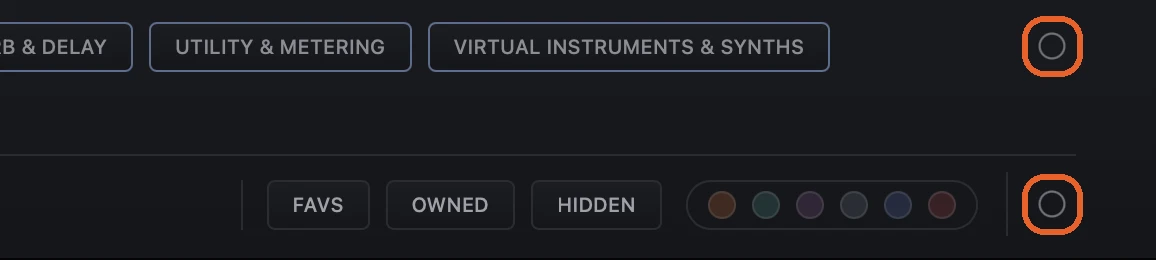
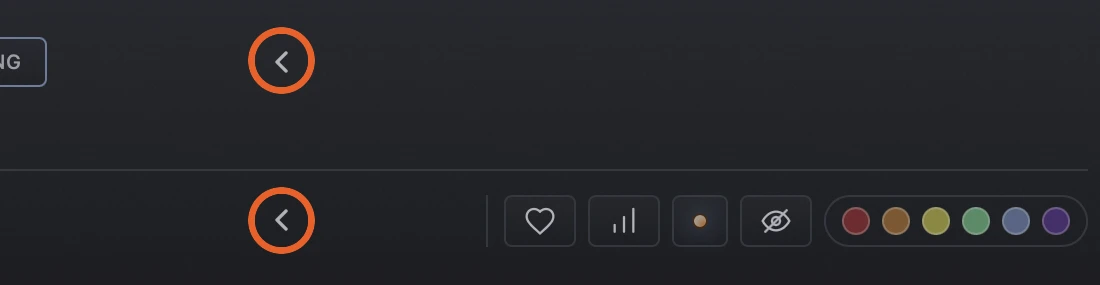
PA: load 2.0 first at the main PA address, keep 1.0 under /v1/ with a 2.0 | 1.0 tab switch
Claude-Session: https://claude.ai/code/session_01CH3L65XQEXCz6Uu3iFQYpi

diff --git a/public/pa-x7k2q9m4w3/index.html b/public/pa-x7k2q9m4w3/index.html
@@ -1,7 +1,7 @@
 <!doctype html>
 <html lang="en"><head>
 <meta name="robots" content="noindex,nofollow"><meta charset="utf-8"><meta name="viewport" content="width=device-width, initial-scale=1">
-<title>BCD × Plugin Alliance</title>
+<title>BCD × Plugin Alliance 2.0</title>
 <link rel="preconnect" href="https://fonts.googleapis.com">
 <link href="https://fonts.googleapis.com/css2?family=Albert+Sans:wght@300;400;500;600&display=swap" rel="stylesheet">
 <style>
@@ -46,19 +46,26 @@ footer .wrap{display:flex;justify-content:space-between;gap:16px;flex-wrap:wrap}
 nav .wrap{display:grid;grid-template-columns:1fr auto 1fr;gap:16px}nav .wrap>.links{justify-self:center}nav .wrap>.btn{justify-self:end;padding:0 20px;height:40px;display:inline-flex;align-items:center;font-size:13px}.subrow{justify-content:flex-start;gap:40px}.subrow .links{margin-right:0}@media(max-width:700px){nav .wrap{display:flex}}
 nav .wrap{display:flex}
 .txt p+p{margin-top:14px}.txt strong{color:var(--ink);font-weight:600}
-.req{max-width:640px}.req strong{color:var(--ink);font-weight:600}</style></head><body>
+.req{max-width:640px}.req strong{color:var(--ink);font-weight:600}.newgrid{display:grid;grid-template-columns:repeat(auto-fit,minmax(300px,1fr));gap:40px 56px;margin-top:44px}.newgrid h3{margin:0 0 8px}.newgrid p{margin:0;color:var(--sec);line-height:1.7;font-size:16px}.sub{margin:44px 0 -8px;grid-column:1/-1;font-size:11px;font-weight:500;letter-spacing:.14em;text-transform:uppercase;color:var(--mut)}.ver{margin-top:28px;font-size:13px;letter-spacing:.04em;color:var(--mut)}.vtabs{display:flex;gap:6px}.vtabs a{font:500 12px/1 ui-monospace,Menlo,monospace;letter-spacing:.12em;text-transform:uppercase;text-decoration:none;color:var(--ink);opacity:.6;padding:10px 14px;border:1px solid var(--line);border-radius:8px}.vtabs a:hover{opacity:1}.vtabs a.on{opacity:1;border-color:var(--ink)}</style></head><body>
 <nav><div class="wrap"><a class="brand" href="#top">BCD<i class="dot"></i></a>
-</div></nav>
+<div class="vtabs"><a class="on" href="./">2.0 preview</a><a href="v1/">1.0</a></div></div></nav>
 
 <section class="hero" id="top"><div class="wrap">
-<div class="subrow"><div class="eyebrow"><i></i>BCD × Plugin Alliance</div><div class="links"><a href="#views">Views</a><a href="#header-bar">Header bar</a><a href="#controls">Controls</a></div></div>
+<div class="subrow"><div class="eyebrow"><i></i>BCD × Plugin Alliance 2.0</div><div class="links"><a href="#new">What’s new</a><a href="#views">Views</a><a href="#header-bar">Header bar</a><a href="#controls">Controls</a></div></div>
 <h1>Browse. Click. Done.</h1>
-<p class="lead">Plugin Alliance has one of the deepest catalogues in the audio industry. Omni puts your plugins and instruments on screen as pictures you recognise. Click one and it opens on the selected channel strip.</p>
-<div class="btns"><a class="btn o" href="#header-bar">See the controls</a></div>
+<p class="lead">Plugin Alliance brings together an extensive collection of plugins from the audio industry’s leading brands. BCD gives you a visual way to explore, organise and launch them, with support for eleven DAWs on Mac. It works offline, and nothing leaves your Mac.</p>
+<div class="btns"><a class="btn o" href="#new">See what’s new</a></div>
 <img src="page/view_grid.webp" alt="BCD × Plugin Alliance in Grid view">
 </div></section>
 
-<section class="white" id="views"><div class="wrap">
+<section class="white" id="new"><div class="wrap">
+<div class="eyebrow">New in 2.0</div>
+<h2>What’s new in 2.0.</h2>
+<p class="lead">Version 2.0.0-preview.2, a trial preview. Here is what has changed since the first version.</p>
+<div class="newgrid"><div><h3>Browse and search by brand</h3><p>A Brands | Categories switch sits above the artwork. Brands shows every brand in the catalogue, and Categories shows Plugin Alliance’s own categories. Pick a brand and the grid narrows to it; combine it with a category, and click the brand again to clear it. Each tile shows its brand across the top and the plugin’s own name below, so far fewer names are cut off, and typing a brand name in search finds all of its plugins, even where the brand is not in the plugin’s name.</p></div><div><h3>Eleven DAWs</h3><p>Choose your DAW on the DAW tab. The app works on Mac with <strong>Ableton Live, Bitwig Studio, Cubase, FL Studio, Logic Pro, LUNA, Nuendo, Pro Tools, REAPER, Reason and Studio Pro / Studio One</strong>.</p></div><div><h3>No other software</h3><p>Flexi-Deck is not needed. The app installs a small script for Logic, the BCD Bridge, during set-up, and asks for the Accessibility permission once.</p></div><div><h3>Colour tags</h3><p>Six fixed colours (red, orange, yellow, green, blue and purple) to organise plugins around your workflow. Name each colour in Prefs and hover over a tag to see its meaning. Click a colour to filter the collection, or pick several at once; a small ✕ clears them. Tags show in every view.</p></div><div><h3>Batch</h3><p>Select several plugins, or the whole collection, then favourite or unfavourite, hide or unhide, colour-tag, mark Owned or Not Owned, add to a category, or export them in one go, with Undo if you change your mind.</p></div><div><h3>Owned and Not Owned, and a wish list</h3><p>Plugins you don’t own stay visible but dimmed. Give one a heart and it works as a wish list, which is useful when a trial ends.</p></div><div><h3>Most Used</h3><p>Your 20 most inserted plugins, busiest first. It counts per DAW, so each host shows only what you used there.</p></div><div><h3>Favs and Hidden filters</h3><p>Small icons (heart, owned light, eye with a slash) show only favourites, only plugins you own or don’t, or only what you’ve hidden. Hover to see the name and how many.</p></div><div><h3>Just start typing</h3><p>A letter typed anywhere jumps into the search box, Esc clears it, and Return loads the top result.</p></div><div><h3>Plugin report</h3><p>One click in Libraries scans your standard plugin folders and saves an Excel report to your Desktop: one row per plugin, the formats each is installed in, duplicates, and folder sizes. It only reads; nothing is moved, deleted or sent anywhere.</p></div><div><h3>Faster inserts</h3><p>On our test Macs, a tile click now gets the plugin into Logic about a second sooner than the first version.</p></div><div><h3>A calmer first launch</h3><p>The app asks for the main permission once, in front, a moment after the window appears, and takes you straight to the right Settings page, so the first click usually works. (macOS may still ask separately to let the app control Logic Pro the first time.)</p></div><div><h3>The Add form is in clear sections</h3><p>In the evaluation build, the form is split into Module, Maker, Categories, Status and Artwork. The manufacturer’s own categories are blue and BCD’s shared categories are violet, each with a short key. The main action is a muted green.</p></div><div><h3>Effect or Instrument, made clear (in the evaluation build)</h3><p>Adding your own plugin uses a clear Effect | Instrument choice under the name. The Instrument switch, the manufacturer’s instrument category and BCD’s Instruments category follow each other, and choosing an instrument-type category turns Instrument on automatically.</p></div><div><h3>Choose a brand when you add a plugin (in the evaluation build)</h3><p>An optional Brand field suggests a brand from the name and only accepts brands already in the catalogue.</p></div><div><h3>Easier to read</h3><p>The tabs at the top of each drawer stay in place while the contents scroll, with more space between sections.</p></div><div><h3>Plugins open in front</h3><p>The app’s window fills the screen without macOS full screen, so a plugin window never opens behind it when your DAW is full screen on another display.</p></div><div><h3>Copy system info</h3><p>One click in the Help tab puts your versions and settings on the clipboard, ready to paste into a message. It contains no plugin names, no files and nothing personal.</p></div><div><h3>A Help tab</h3><p>The version and build number, whether the permission it needs has been granted, what the app needs, and short fixes for the usual problems.</p></div></div>
+</div></section>
+
+<section class="line" id="views"><div class="wrap">
 <div class="eyebrow">Three ways to look</div>
 <h2>Grid, List and Sphere.</h2>
 <p class="lead">Switch views at any time. Your filters stay exactly as they are.</p>
@@ -67,36 +74,41 @@ nav .wrap{display:flex}
 <div><img src="page/view_list_plain.webp" alt="List view"><div class="cap"><b>List</b><span>Names first, sorted by plugin or by company.</span></div></div>
 <div><img src="page/view_list_coloured.webp" alt="List view with colour tags"><div class="cap"><b>List with colour tags</b><span>Tag a module with a colour and its tile takes the tint.</span></div></div>
 </div>
-<div><img src="page/view_sphere.webp" alt="Sphere view"><div class="cap"><b>Sphere</b><span>An endless drifting field for browsing rather than searching.</span></div></div>
+<div><img src="page/view_sphere.webp" alt="Sphere view"><div class="cap"><b>Sphere</b><span>An endless drifting field for browsing and discovering.</span></div></div>
 </div></section>
 
-<section class="line" id="header-bar"><div class="wrap">
+<section class="white" id="header-bar"><div class="wrap">
 <div class="eyebrow">The header bar</div>
 <h2>Everything you need, along one bar.</h2>
-<p class="lead">Views, search and tools sit in the header. Categories, companies and filters sit just beneath it. Here is what each one does.</p>
+<p class="lead">Views, search and tools sit in the header. The Brands | Categories switch, the company row and the filters sit just beneath it. Here is what each one does.</p>
 <img src="page/hdr_all.webp" alt="The full header bar">
 </div></section>
 
 <section class="line" id="controls" style="padding-bottom:24px"><div class="wrap rows">
-<div class="row"><div class="shots"><img src="page/r01_count.webp" alt="The module count" style="max-width:100%"></div><div class="txt"><div class="lab">01</div><h3>The module count</h3><p>Under the title, it shows how many modules match what you are looking at, out of the whole collection. It updates as you search and filter.</p></div></div>
-<div class="row"><div class="shots"><img src="page/r02_views.webp" alt="Grid, List and Sphere" style="max-width:100%"></div><div class="txt"><div class="lab">02</div><h3>Grid, List and Sphere</h3><p>Grid shows tiles with artwork. List shows rows sorted by plugin or company. Sphere is an endless drifting field for browsing rather than searching.</p></div></div>
-<div class="row"><div class="shots"><img src="page/r03_dice_az.webp" alt="Dice and A–Z" style="max-width:100%"><img src="page/r03_dice_sphere.webp" alt="Dice and A–Z" style="max-width:100%"></div><div class="txt"><div class="lab">03</div><h3>Dice and A–Z</h3><p>The dice shuffles the order. In Sphere it reshuffles the field, and the ∞ button switches between an endless field and a single one, with each module once. In Grid and List, once a company or category is chosen, A–Z puts the tiles back in order.</p></div></div>
-<div class="row"><div class="shots"><img src="page/r04_search.webp" alt="Search" style="max-width:100%"><img src="page/r04_search_typed.webp" alt="Search with text typed, showing the clear button" style="max-width:100%"></div><div class="txt"><div class="lab">04</div><h3>Search and Logic Search</h3><p>Type to filter modules by name. A small × appears at the end of the field to clear what you typed. The dot at the end opens Logic’s own plugin search.</p></div></div>
-<div class="row"><div class="shots"><img src="page/mag_toolbar.webp" alt="The Magnify button, switched on" style="max-width:100%"><img src="page/mag_popup.webp" alt="A module enlarged by Magnify" style="max-width:100%"></div><div class="txt"><div class="lab">05</div><h3>Magnify</h3><p>Switch it on and hover any module to see its artwork enlarged, with its name and company. It is switched off while you batch-select.</p></div></div>
-<div class="row"><div class="shots"><img src="page/batch_toolbar.webp" alt="The Batch button" style="max-width:100%"><img src="page/batch_bar.webp" alt="The batch bar with two modules selected" style="max-width:100%"></div><div class="txt"><div class="lab">06</div><h3>Batch</h3><p>Click Batch, then click modules to select them. A bar opens at the bottom with Select all, favourite or unfavourite, hide or unhide, owned or not owned, colour tags, export, delete and Add to category. Delete removes your own additions. Done closes the bar.</p></div></div>
-<div class="row"><div class="shots"><img src="page/drawer_add.webp" alt="The Add drawer" style="max-width:440px"></div><div class="txt"><div class="lab">07</div><h3>+ Add</h3><p>Add a module by hand. Give it a name, then the exact name Logic uses in its plugin menu, so it can be found. Choose the manufacturer and categories, and mark it Owned or Hidden if you want to. Then add a colour tag, drop in artwork and press Add Module.</p><p><strong>If it is an instrument, you must click the large Instrument button under the categories. That triggers the Instrument macro, which creates the channel strip first.</strong></p></div></div>
-<div class="row"><div class="shots"><img src="page/drawer_libraries.webp" alt="The Libraries drawer" style="max-width:440px"></div><div class="txt"><div class="lab">08</div><h3>Libraries</h3><p>Import a library, or drop a .BCDLIB file anywhere in the window, or import a spreadsheet (CSV or XLSX). Every company has its own switch, so you can show or hide whole libraries. BCD Catalog and Your Additions show how many modules come from each.</p></div></div>
-<div class="row"><div class="shots"><img src="page/drawer_prefs.webp" alt="The Prefs drawer" style="max-width:440px"></div><div class="txt"><div class="lab">09</div><h3>Prefs</h3><p>Choose whether Omni opens in Grid, Sphere or where you left off, and set the tile size and artwork zoom. Pick a click glow and its colour, name your six colour tags, and choose whether tags show in List only or in Grid and Sphere too. The Sphere field can be endless or single.</p></div></div>
-<div class="row"><div class="shots"><img src="page/r09_states.webp" alt="Favs, Owned and Hidden" style="max-width:720px"></div><div class="txt"><div class="lab">10</div><h3>Favs, Owned and Hidden</h3><p>Three filters that combine with the category and company rows. Favs shows what you have hearted, Owned shows what you own, and Hidden shows what you have put away. Colour dots filter by tag.</p></div></div>
-<div class="row"><div class="shots"><img src="page/r08_left.webp" alt="The category row and the company pill" style="max-width:100%"><img src="page/r08_right.webp" alt="The circles that show or hide categories and companies" style="max-width:100%"></div><div class="txt"><div class="lab">11</div><h3>Categories and companies</h3><p>Filter by company, then by that company’s own categories. With everything showing, the same row becomes BCD’s 14 categories, so every manufacturer shares one vocabulary. The circle at the end of the category row shows or hides all the categories. The circle at the end of the company row shows or hides the companies.</p></div></div>
-<div class="row"><div class="shots"><img src="page/tile_closeup_grid.webp" alt="A module tile in Grid view, with artwork" style="max-width:516px"><img src="page/tile_closeup.webp" alt="A module tile in List view, name only" style="max-width:516px"></div><div class="txt"><div class="lab">12</div><h3>Module cards</h3><p>Click the artwork or the name and the plugin opens on the selected channel strip in Logic. The dot marks owned or not owned, the pencil edits the module, and the heart adds it to your favourites. Grid tiles show the artwork, List tiles show the name.</p></div></div>
+<div class="row"><div class="shots"><img src="page/r01_count.webp" alt="The module count" style="max-width:100%"></div><div class="txt"><div class="lab">01</div><h3>The module count</h3><p>Under the title, it shows how many modules match what you are looking at, out of the whole collection, and the DAW the app is set up for. It updates as you search and filter.</p></div></div>
+<div class="row"><div class="shots"><img src="page/r02_views.webp" alt="Grid, List and Sphere" style="max-width:100%"></div><div class="txt"><div class="lab">02</div><h3>Grid, List and Sphere</h3><p>Grid shows tiles with artwork. List shows rows sorted by plugin or company. Sphere is an endless drifting field for browsing and discovering.</p></div></div>
+<div class="row"><div class="shots"><img src="page/r03_dice_sphere.webp" alt="Dice and infinity button in Sphere" style="max-width:100%"><img src="page/r03_dice_az.webp" alt="Dice and A–Z" style="max-width:100%"></div><div class="txt"><div class="lab">03</div><h3>Dice and A–Z</h3><p>The dice shuffles the order. In Sphere it reshuffles the field, and the ∞ button switches between an endless field and a single one, with each module once. In Grid and List, once a company or category is chosen, A–Z puts the tiles back in order.</p></div></div>
+<div class="row"><div class="shots"><img src="page/brands_open.webp" alt="The Brands and Categories switch, with Brands showing" style="max-width:100%"><img src="page/brand_selected.webp" alt="One brand picked, with the module count narrowed" style="max-width:100%"></div><div class="txt"><div class="lab">04</div><h3>Brands and Categories</h3><p>A Brands | Categories switch sits above the artwork. Brands shows every brand in the catalogue, such as Brainworx, SPL, Lindell Audio, Unfiltered Audio and elysia. Categories shows Plugin Alliance’s own categories.</p><p>Pick a brand and the grid narrows to it. Combine it with a category, and click the brand again to clear it. The two choices narrow each other, so you never click into an empty result.</p><p>The company row beneath picks the library: Plugin Alliance, Apple Logic or Apple Native.</p></div></div>
+<div class="row"><div class="shots"><img src="page/sr_brand.webp" alt="Search results for the brand Apogee" style="max-width:100%"><img src="page/r04_search_typed.webp" alt="The white circle at the end of the search field, which opens your DAW’s own plugin search" style="max-width:100%"></div><div class="txt"><div class="lab">05</div><h3>Search</h3><p>Type to filter modules by name. Type a brand name and you find all of its plugins, even where the brand is not in the plugin’s name. You don’t need to click the box first: a letter typed anywhere jumps into search, Esc clears it, and Return loads the top result. The white circle at the end opens your DAW’s own plugin search.</p></div></div>
+<div class="row"><div class="shots"><img src="page/batch_toolbar.webp" alt="The Batch button" style="max-width:100%"><img src="page/batch_bar.webp" alt="The batch bar with four modules selected" style="max-width:100%"></div><div class="txt"><div class="lab">06</div><h3>Batch</h3><p>Click Batch, then click modules to select them, or use Select all. A bar opens at the bottom to favourite or unfavourite, hide or unhide, mark Owned or Not Owned, apply a colour tag, add to a category, or export. Undo steps back if you change your mind, and the bin removes your own additions. Done closes the bar, and Exit leaves Batch.</p></div></div>
+<div class="row"><div class="shots"><img src="page/mag_toolbar.webp" alt="The Magnify button, switched on" style="max-width:100%"><img src="page/mag_popup.webp" alt="A module enlarged by Magnify" style="max-width:100%"></div><div class="txt"><div class="lab">07</div><h3>Magnify</h3><p>Switch it on and hover any module to see its artwork enlarged, with its name and company. It is switched off while you batch-select.</p></div></div>
+<div class="row"><div class="shots"><img src="page/drawer_add_effect.webp" alt="The Add drawer with Effect chosen" style="max-width:440px"><img src="page/drawer_add_instrument.webp" alt="The Add drawer with Instrument chosen" style="max-width:440px"><img src="page/drawer_add_sections.webp" alt="The Add drawer showing the categories" style="max-width:440px"></div><div class="txt"><div class="lab">08</div><h3>+ Add</h3><p>In the evaluation build, + Add adds a module by hand. The form is in clear sections: Module, Maker, Categories, Status and Artwork. Choose Effect or Instrument, give the module a name, then enter the exact name your DAW uses in its plugin list, so it can be found. The optional Brand field suggests a brand from the name and only accepts brands already in the catalogue. Choose the manufacturer, then the categories: the manufacturer’s own are blue and BCD’s shared categories are violet. Under Status, mark it Owned or Hidden and add a colour tag, then drop in artwork and press Add Module. The tabs at the top stay in place while the form scrolls.</p><p><strong>If it is an instrument, Instrument must be selected. Choosing an instrument-type category turns it on for you.</strong></p></div></div>
+<div class="row"><div class="shots"><img src="page/drawer_libraries.webp" alt="The Libraries drawer" style="max-width:440px"></div><div class="txt"><div class="lab">09</div><h3>Libraries</h3><p>In the evaluation build, Libraries imports a library, or drop a .BCDLIB file anywhere in the window, or import a spreadsheet (CSV or XLSX). Every company has its own switch, so you can show or hide whole libraries. BCD Catalog and Your Additions show how many modules come from each.</p><p><strong>Plugin report</strong> scans your standard plugin folders and saves an Excel report to your Desktop: one row per plugin, the formats each is installed in, duplicates, and folder sizes. It only reads; nothing is moved, deleted or sent anywhere.</p></div></div>
+<div class="row"><div class="shots"><img src="page/drawer_prefs_full.webp" alt="The Prefs drawer, from colour tags to interaction and system" style="max-width:440px"></div><div class="txt"><div class="lab">10</div><h3>Prefs</h3><p>Name your six colour tags. Set the tile size and artwork zoom, pick an accent colour, and choose a click glow and its colour. Choose whether the app opens in Grid, Sphere or where you left off, set a keyboard shortcut to show or hide the app, and reveal its data folder in Finder.</p></div></div>
+<div class="row"><div class="shots"><img src="page/drawer_daw_full.webp" alt="The DAW tab, choosing a host app and the set-up checklist" style="max-width:440px"><img src="page/bcd_bridge.webp" alt="The BCD Bridge" style="max-width:220px"></div><div class="txt"><div class="lab">11</div><h3>DAW</h3><p>The DAW tab is where you choose your DAW, from Ableton Live, Bitwig Studio, Cubase, FL Studio, Logic Pro, LUNA, Nuendo, Pro Tools, REAPER, Reason and Studio Pro / Studio One. No other software is needed. For Logic, the app installs a small script, the BCD Bridge, during set-up. In Logic it is listed under Control Surfaces &gt; Setup, as shown below. A short checklist shows whether the permission has been granted, whether the app is listening and whether the bridge is installed, with an Open settings link beside each permission and a Show guide pictures link for step-by-step help. A few DAWs (Pro Tools, Nuendo, Cubase, Studio Pro and Reason) also need the Screen Recording permission.</p><p>Pro Tools needs to be the English version, and the app loads AAX plugins only. A click takes the first result for names ending in “(mono)”, and a double click lets you pick.</p></div></div>
+<div class="row"><div class="shots"><img src="page/drawer_help.webp" alt="The Help drawer, top" style="max-width:440px"><img src="page/drawer_help_copy.webp" alt="The Help drawer, Send us your details and the Copy system info button" style="max-width:440px"></div><div class="txt"><div class="lab">12</div><h3>Help</h3><p>The Help tab shows whether the permission the app needs has been granted, with buttons to check again and to open the right Settings page, and lists what the app needs. It explains how to use the app on a touch screen, and has a tip for giving the app a screen of its own. <strong>Copy system info</strong> puts your versions and settings on the clipboard, with no plugin names, no files and nothing personal, to paste into a message to us. Below it are short fixes for the usual problems.</p></div></div>
+<div class="row"><div class="shots"><img src="page/r09_icons.webp" alt="The four filter icons and the colour dots" style="max-width:100%"><img src="page/icons_states.webp" alt="Favs, Most Used, Owned and Hidden switched on" style="max-width:560px"></div><div class="txt"><div class="lab">13</div><h3>Favs, Most Used, Owned and Hidden</h3><p>Four icons at the lower right of the header each filter the collection, and each has an off and an on state. The heart shows only your favourites. The bars show Most Used: your 20 most inserted plugins, busiest first, counted per DAW. The owned light shows the plugins you own or don’t, and the eye with a slash shows what you have put away. Hover over an icon to see its name and how many. The filters combine with search, company and category.</p></div></div>
+<div class="row"><div class="shots"><img src="page/icons_colours.webp" alt="The six colour dots, and one colour switched on" style="max-width:560px"><img src="page/colours_tiles.webp" alt="Tiles with colour tags in List view" style="max-width:100%"></div><div class="txt"><div class="lab">14</div><h3>Colour tags</h3><p>Mark plugins with one of six fixed colours (red, orange, yellow, green, blue and purple) to organise them around your workflow. Name each colour in Prefs, and hover over a tag to see its meaning.</p><p><strong>Filtering.</strong> Click a colour in the header to filter the collection, or pick several at once. A small ✕ clears them.</p><p><strong>On the tiles.</strong> Tags show in every view: a small coloured circle at the bottom left of a tile in Grid and Sphere, and in List the whole tile takes a coloured frame as well as the circle. To tag many at once, select them with Batch and click a colour on the bar.</p></div></div>
+<div class="row"><div class="shots"><img src="page/r08_right.webp" alt="The arrows that collapse the category and company rows" style="max-width:100%"></div><div class="txt"><div class="lab">15</div><h3>Categories and companies</h3><p>Filter by company, then by category or brand. The arrow at the end of the top row, just under Magnify, opens and closes the brands or categories, and the arrow on the company row opens and closes the companies.</p></div></div>
+<div class="row"><div class="shots"><img src="page/tile_closeup_grid.webp" alt="A module tile in Grid view, with artwork" style="max-width:516px"><img src="page/tile_closeup.webp" alt="A module tile in List view, name only" style="max-width:516px"><img src="page/owned_pair.webp" alt="The same tile owned, with a lit dot, and not owned, dimmed with a hollow dot" style="max-width:516px"></div><div class="txt"><div class="lab">16</div><h3>Module cards</h3><p>Each tile shows its brand across the top and the plugin’s own name below, so far fewer names are cut off. Click the artwork or the name and the plugin goes onto the selected track in your DAW. The dot at the top right marks owned (lit) or not owned (hollow), the pencil edits the module, and the heart adds it to your favourites. Plugins you don’t own stay visible but dimmed, as in the last pair of images, and a heart on one works as a wish list, which is useful when a trial ends. Grid tiles show the artwork, List tiles show the name.</p></div></div>
 </div></section>
 
 <section class="white" id="get" style="margin-top:48px;padding:96px 32px"><div class="wrap">
 <div class="lab" style="margin-bottom:16px">System requirements</div>
-<p class="lead req" style="margin-bottom:0"><strong>DAW:</strong> Logic Pro 11.1 or later (required for the plugin search Omni uses).</p>
-<p class="lead req" style="margin:12px 0 0"><strong>Flexi-Deck:</strong> the free Flexi-Deck Player, running, with the BCD Launch Macros project loaded. Omni hands each plugin name to Logic through these macros. Without them you can still browse, but a click won’t open the plugin.</p>
+<p class="lead req" style="margin-bottom:0"><strong>DAW:</strong> Tested on Logic Pro 12. Other DAWs are listed on the DAW tab in Prefs.</p>
+<p class="lead req" style="margin:12px 0 0"><strong>No other software.</strong> Flexi-Deck is not needed. The app installs a small script for Logic (the BCD Bridge) during set-up, and asks for the Accessibility permission once. A few DAWs (Pro Tools, Nuendo, Cubase, Studio Pro and Reason) also need the Screen Recording permission. Other DAWs are chosen and set up on the DAW tab in Prefs.</p>
 <p class="lead req" style="margin:12px 0 0"><strong>Mac:</strong> Apple Silicon, macOS 15 (Sequoia) or later.</p>
+<p class="ver">Version 2.0.0-preview.2 (trial / preview)</p>
 </div></section>
 <footer><div class="wrap"><div>BCD · Browse. Click. Done.</div><a href="#top" style="color:#666">Back to top</a></div></footer>
 </body></html>

diff --git a/public/pa-x7k2q9m4w3/v1/index.html b/public/pa-x7k2q9m4w3/v1/index.html
@@ -1,0 +1,102 @@
+<!doctype html>
+<html lang="en"><head>
+<meta name="robots" content="noindex,nofollow"><meta charset="utf-8"><meta name="viewport" content="width=device-width, initial-scale=1">
+<title>BCD × Plugin Alliance</title>
+<link rel="preconnect" href="https://fonts.googleapis.com">
+<link href="https://fonts.googleapis.com/css2?family=Albert+Sans:wght@300;400;500;600&display=swap" rel="stylesheet">
+<style>
+:root{--bg:#F7F7F5;--card:#fff;--line:#E6E6E2;--ink:#111;--sec:#444;--mut:#6B6B6B;--acc:#E8622C}
+*{box-sizing:border-box}
+html{scroll-behavior:smooth}
+body{margin:0;background:var(--bg);color:var(--ink);font-family:'Albert Sans',-apple-system,'SF Pro Display',system-ui,sans-serif}
+a{color:var(--ink)} a:hover{color:#666}
+img{display:block;width:100%;height:auto;border-radius:10px;border:1px solid #D9D9D4}
+.wrap{max-width:1120px;margin:0 auto}
+nav{padding:0 32px;border-bottom:1px solid var(--line)}
+nav .wrap{height:64px;display:flex;align-items:center;justify-content:space-between;gap:16px;flex-wrap:wrap}
+.brand{text-decoration:none;font-size:20px;letter-spacing:-.01em;display:flex;align-items:center;gap:8px}
+.brand span{font-weight:300;color:#666} .dot{width:7px;height:7px;border-radius:4px;background:var(--acc);display:inline-block;margin-top:4px}
+.links{display:flex;align-items:center;gap:8px;flex-wrap:wrap}
+.links a{padding:10px 12px;text-decoration:none;font-size:12px;font-weight:500;letter-spacing:.12em;text-transform:uppercase;color:var(--sec)}
+.btn{height:44px;padding:0 26px;display:inline-flex;align-items:center;border-radius:8px;background:var(--ink);color:#fff!important;text-decoration:none;font-size:14px;font-weight:500}
+.btn.o{background:#fff;color:var(--ink)!important;border:1px solid #DADAD5}
+.links a.btn{padding:0 20px;height:40px;font-size:13px;letter-spacing:0;text-transform:none}
+section{padding:88px 32px} .hero{padding:96px 32px 72px}
+.white{background:#fff;border-top:1px solid var(--line)} .line{border-top:1px solid var(--line)}
+.eyebrow{font-size:11px;font-weight:500;letter-spacing:.14em;text-transform:uppercase;color:var(--mut);display:flex;align-items:center;gap:10px}
+.eyebrow i{width:6px;height:6px;border-radius:3px;background:var(--acc)}
+h1{margin:28px 0;font-size:64px;line-height:1.08;font-weight:400;letter-spacing:-.025em;max-width:760px}
+h2{margin:24px 0;font-size:44px;line-height:1.12;font-weight:400;letter-spacing:-.02em;max-width:640px}
+h3{margin:0;font-size:30px;line-height:1.15;font-weight:400;letter-spacing:-.015em}
+.lead{margin:0 0 28px;font-size:18px;line-height:1.8;color:var(--sec);max-width:520px}
+p{margin:0} .btns{display:flex;gap:12px;flex-wrap:wrap;margin-bottom:40px}
+.cap{display:flex;gap:12px;align-items:baseline;flex-wrap:wrap;margin-top:12px}
+.cap b{font-size:11px;font-weight:500;letter-spacing:.14em;text-transform:uppercase} .cap span{font-size:15px;color:var(--sec)}
+.pair{display:flex;gap:28px;flex-wrap:wrap;margin:24px 0} .pair>div{flex:1 1 440px;min-width:0}
+.rows{display:flex;flex-direction:column;gap:72px}
+.row{display:flex;gap:56px;align-items:center;flex-wrap:wrap}
+.shots{flex:2 1 460px;min-width:0;display:flex;flex-direction:column;gap:12px}
+.txt{flex:1 1 280px;min-width:0;display:flex;flex-direction:column;gap:16px}
+.lab{font-size:11px;font-weight:500;letter-spacing:.14em;text-transform:uppercase;color:var(--mut)}
+.txt p{font-size:16px;line-height:1.8;color:var(--sec);max-width:440px}
+footer{padding:32px;border-top:1px solid var(--line);font-size:13px;color:#666}
+footer .wrap{display:flex;justify-content:space-between;gap:16px;flex-wrap:wrap}
+@media(max-width:700px){h1{font-size:44px}h2{font-size:32px}}
+.subrow{display:flex;align-items:center;justify-content:space-between;gap:16px;flex-wrap:wrap;margin-bottom:28px}.subrow .eyebrow{margin:0}.subrow .eyebrow{font-size:12px;letter-spacing:.12em;color:var(--sec)}.subrow .links{margin-right:-12px}
+nav .wrap{display:grid;grid-template-columns:1fr auto 1fr;gap:16px}nav .wrap>.links{justify-self:center}nav .wrap>.btn{justify-self:end;padding:0 20px;height:40px;display:inline-flex;align-items:center;font-size:13px}.subrow{justify-content:flex-start;gap:40px}.subrow .links{margin-right:0}@media(max-width:700px){nav .wrap{display:flex}}
+nav .wrap{display:flex}
+.txt p+p{margin-top:14px}.txt strong{color:var(--ink);font-weight:600}
+.req{max-width:640px}.req strong{color:var(--ink);font-weight:600}.vtabs{display:flex;gap:6px}.vtabs a{font:500 12px/1 ui-monospace,Menlo,monospace;letter-spacing:.12em;text-transform:uppercase;text-decoration:none;color:var(--ink);opacity:.6;padding:10px 14px;border:1px solid var(--line);border-radius:8px}.vtabs a:hover{opacity:1}.vtabs a.on{opacity:1;border-color:var(--ink)}</style></head><body>
+<nav><div class="wrap"><a class="brand" href="#top">BCD<i class="dot"></i></a>
+<div class="vtabs"><a href="../">2.0 preview</a><a class="on" href="./">1.0</a></div></div></nav>
+
+<section class="hero" id="top"><div class="wrap">
+<div class="subrow"><div class="eyebrow"><i></i>BCD × Plugin Alliance</div><div class="links"><a href="#views">Views</a><a href="#header-bar">Header bar</a><a href="#controls">Controls</a></div></div>
+<h1>Browse. Click. Done.</h1>
+<p class="lead">Plugin Alliance has one of the deepest catalogues in the audio industry. Omni puts your plugins and instruments on screen as pictures you recognise. Click one and it opens on the selected channel strip.</p>
+<div class="btns"><a class="btn o" href="#header-bar">See the controls</a></div>
+<img src="page/view_grid.webp" alt="BCD × Plugin Alliance in Grid view">
+</div></section>
+
+<section class="white" id="views"><div class="wrap">
+<div class="eyebrow">Three ways to look</div>
+<h2>Grid, List and Sphere.</h2>
+<p class="lead">Switch views at any time. Your filters stay exactly as they are.</p>
+<div><img src="page/view_grid.webp" alt="Grid view"><div class="cap"><b>Grid</b><span>Tiles with artwork. The main view.</span></div></div>
+<div class="pair">
+<div><img src="page/view_list_plain.webp" alt="List view"><div class="cap"><b>List</b><span>Names first, sorted by plugin or by company.</span></div></div>
+<div><img src="page/view_list_coloured.webp" alt="List view with colour tags"><div class="cap"><b>List with colour tags</b><span>Tag a module with a colour and its tile takes the tint.</span></div></div>
+</div>
+<div><img src="page/view_sphere.webp" alt="Sphere view"><div class="cap"><b>Sphere</b><span>An endless drifting field for browsing rather than searching.</span></div></div>
+</div></section>
+
+<section class="line" id="header-bar"><div class="wrap">
+<div class="eyebrow">The header bar</div>
+<h2>Everything you need, along one bar.</h2>
+<p class="lead">Views, search and tools sit in the header. Categories, companies and filters sit just beneath it. Here is what each one does.</p>
+<img src="page/hdr_all.webp" alt="The full header bar">
+</div></section>
+
+<section class="line" id="controls" style="padding-bottom:24px"><div class="wrap rows">
+<div class="row"><div class="shots"><img src="page/r01_count.webp" alt="The module count" style="max-width:100%"></div><div class="txt"><div class="lab">01</div><h3>The module count</h3><p>Under the title, it shows how many modules match what you are looking at, out of the whole collection. It updates as you search and filter.</p></div></div>
+<div class="row"><div class="shots"><img src="page/r02_views.webp" alt="Grid, List and Sphere" style="max-width:100%"></div><div class="txt"><div class="lab">02</div><h3>Grid, List and Sphere</h3><p>Grid shows tiles with artwork. List shows rows sorted by plugin or company. Sphere is an endless drifting field for browsing rather than searching.</p></div></div>
+<div class="row"><div class="shots"><img src="page/r03_dice_az.webp" alt="Dice and A–Z" style="max-width:100%"><img src="page/r03_dice_sphere.webp" alt="Dice and A–Z" style="max-width:100%"></div><div class="txt"><div class="lab">03</div><h3>Dice and A–Z</h3><p>The dice shuffles the order. In Sphere it reshuffles the field, and the ∞ button switches between an endless field and a single one, with each module once. In Grid and List, once a company or category is chosen, A–Z puts the tiles back in order.</p></div></div>
+<div class="row"><div class="shots"><img src="page/r04_search.webp" alt="Search" style="max-width:100%"><img src="page/r04_search_typed.webp" alt="Search with text typed, showing the clear button" style="max-width:100%"></div><div class="txt"><div class="lab">04</div><h3>Search and Logic Search</h3><p>Type to filter modules by name. A small × appears at the end of the field to clear what you typed. The dot at the end opens Logic’s own plugin search.</p></div></div>
+<div class="row"><div class="shots"><img src="page/mag_toolbar.webp" alt="The Magnify button, switched on" style="max-width:100%"><img src="page/mag_popup.webp" alt="A module enlarged by Magnify" style="max-width:100%"></div><div class="txt"><div class="lab">05</div><h3>Magnify</h3><p>Switch it on and hover any module to see its artwork enlarged, with its name and company. It is switched off while you batch-select.</p></div></div>
+<div class="row"><div class="shots"><img src="page/batch_toolbar.webp" alt="The Batch button" style="max-width:100%"><img src="page/batch_bar.webp" alt="The batch bar with two modules selected" style="max-width:100%"></div><div class="txt"><div class="lab">06</div><h3>Batch</h3><p>Click Batch, then click modules to select them. A bar opens at the bottom with Select all, favourite or unfavourite, hide or unhide, owned or not owned, colour tags, export, delete and Add to category. Delete removes your own additions. Done closes the bar.</p></div></div>
+<div class="row"><div class="shots"><img src="page/drawer_add.webp" alt="The Add drawer" style="max-width:440px"></div><div class="txt"><div class="lab">07</div><h3>+ Add</h3><p>Add a module by hand. Give it a name, then the exact name Logic uses in its plugin menu, so it can be found. Choose the manufacturer and categories, and mark it Owned or Hidden if you want to. Then add a colour tag, drop in artwork and press Add Module.</p><p><strong>If it is an instrument, you must click the large Instrument button under the categories. That triggers the Instrument macro, which creates the channel strip first.</strong></p></div></div>
+<div class="row"><div class="shots"><img src="page/drawer_libraries.webp" alt="The Libraries drawer" style="max-width:440px"></div><div class="txt"><div class="lab">08</div><h3>Libraries</h3><p>Import a library, or drop a .BCDLIB file anywhere in the window, or import a spreadsheet (CSV or XLSX). Every company has its own switch, so you can show or hide whole libraries. BCD Catalog and Your Additions show how many modules come from each.</p></div></div>
+<div class="row"><div class="shots"><img src="page/drawer_prefs.webp" alt="The Prefs drawer" style="max-width:440px"></div><div class="txt"><div class="lab">09</div><h3>Prefs</h3><p>Choose whether Omni opens in Grid, Sphere or where you left off, and set the tile size and artwork zoom. Pick a click glow and its colour, name your six colour tags, and choose whether tags show in List only or in Grid and Sphere too. The Sphere field can be endless or single.</p></div></div>
+<div class="row"><div class="shots"><img src="page/r09_states.webp" alt="Favs, Owned and Hidden" style="max-width:720px"></div><div class="txt"><div class="lab">10</div><h3>Favs, Owned and Hidden</h3><p>Three filters that combine with the category and company rows. Favs shows what you have hearted, Owned shows what you own, and Hidden shows what you have put away. Colour dots filter by tag.</p></div></div>
+<div class="row"><div class="shots"><img src="page/r08_left.webp" alt="The category row and the company pill" style="max-width:100%"><img src="page/r08_right.webp" alt="The circles that show or hide categories and companies" style="max-width:100%"></div><div class="txt"><div class="lab">11</div><h3>Categories and companies</h3><p>Filter by company, then by that company’s own categories. With everything showing, the same row becomes BCD’s 14 categories, so every manufacturer shares one vocabulary. The circle at the end of the category row shows or hides all the categories. The circle at the end of the company row shows or hides the companies.</p></div></div>
+<div class="row"><div class="shots"><img src="page/tile_closeup_grid.webp" alt="A module tile in Grid view, with artwork" style="max-width:516px"><img src="page/tile_closeup.webp" alt="A module tile in List view, name only" style="max-width:516px"></div><div class="txt"><div class="lab">12</div><h3>Module cards</h3><p>Click the artwork or the name and the plugin opens on the selected channel strip in Logic. The dot marks owned or not owned, the pencil edits the module, and the heart adds it to your favourites. Grid tiles show the artwork, List tiles show the name.</p></div></div>
+</div></section>
+
+<section class="white" id="get" style="margin-top:48px;padding:96px 32px"><div class="wrap">
+<div class="lab" style="margin-bottom:16px">System requirements</div>
+<p class="lead req" style="margin-bottom:0"><strong>DAW:</strong> Logic Pro 11.1 or later (required for the plugin search Omni uses).</p>
+<p class="lead req" style="margin:12px 0 0"><strong>Flexi-Deck:</strong> the free Flexi-Deck Player, running, with the BCD Launch Macros project loaded. Omni hands each plugin name to Logic through these macros. Without them you can still browse, but a click won’t open the plugin.</p>
+<p class="lead req" style="margin:12px 0 0"><strong>Mac:</strong> Apple Silicon, macOS 15 (Sequoia) or later.</p>
+</div></section>
+<footer><div class="wrap"><div>BCD · Browse. Click. Done.</div><a href="#top" style="color:#666">Back to top</a></div></footer>
+</body></html>
